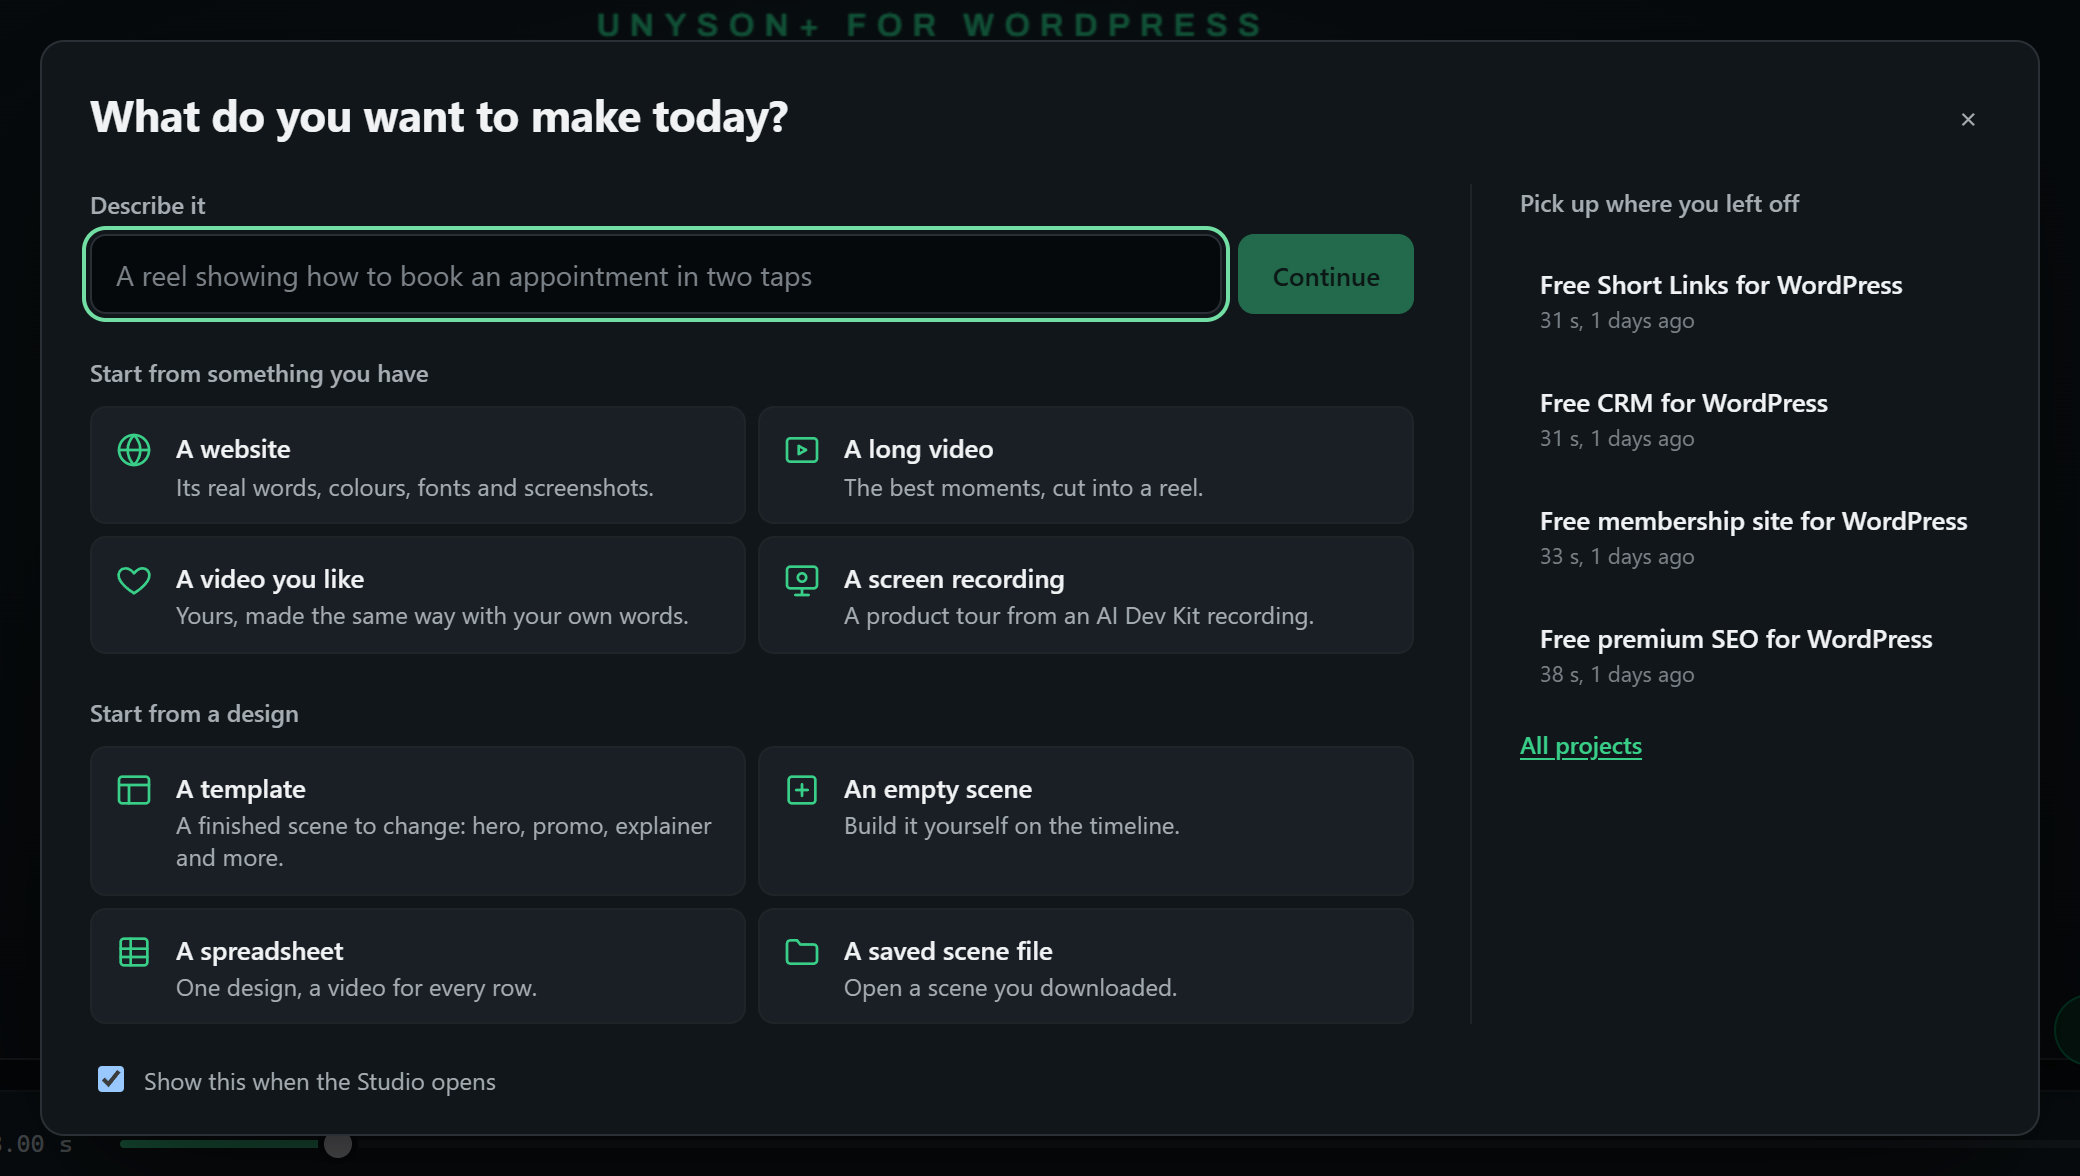
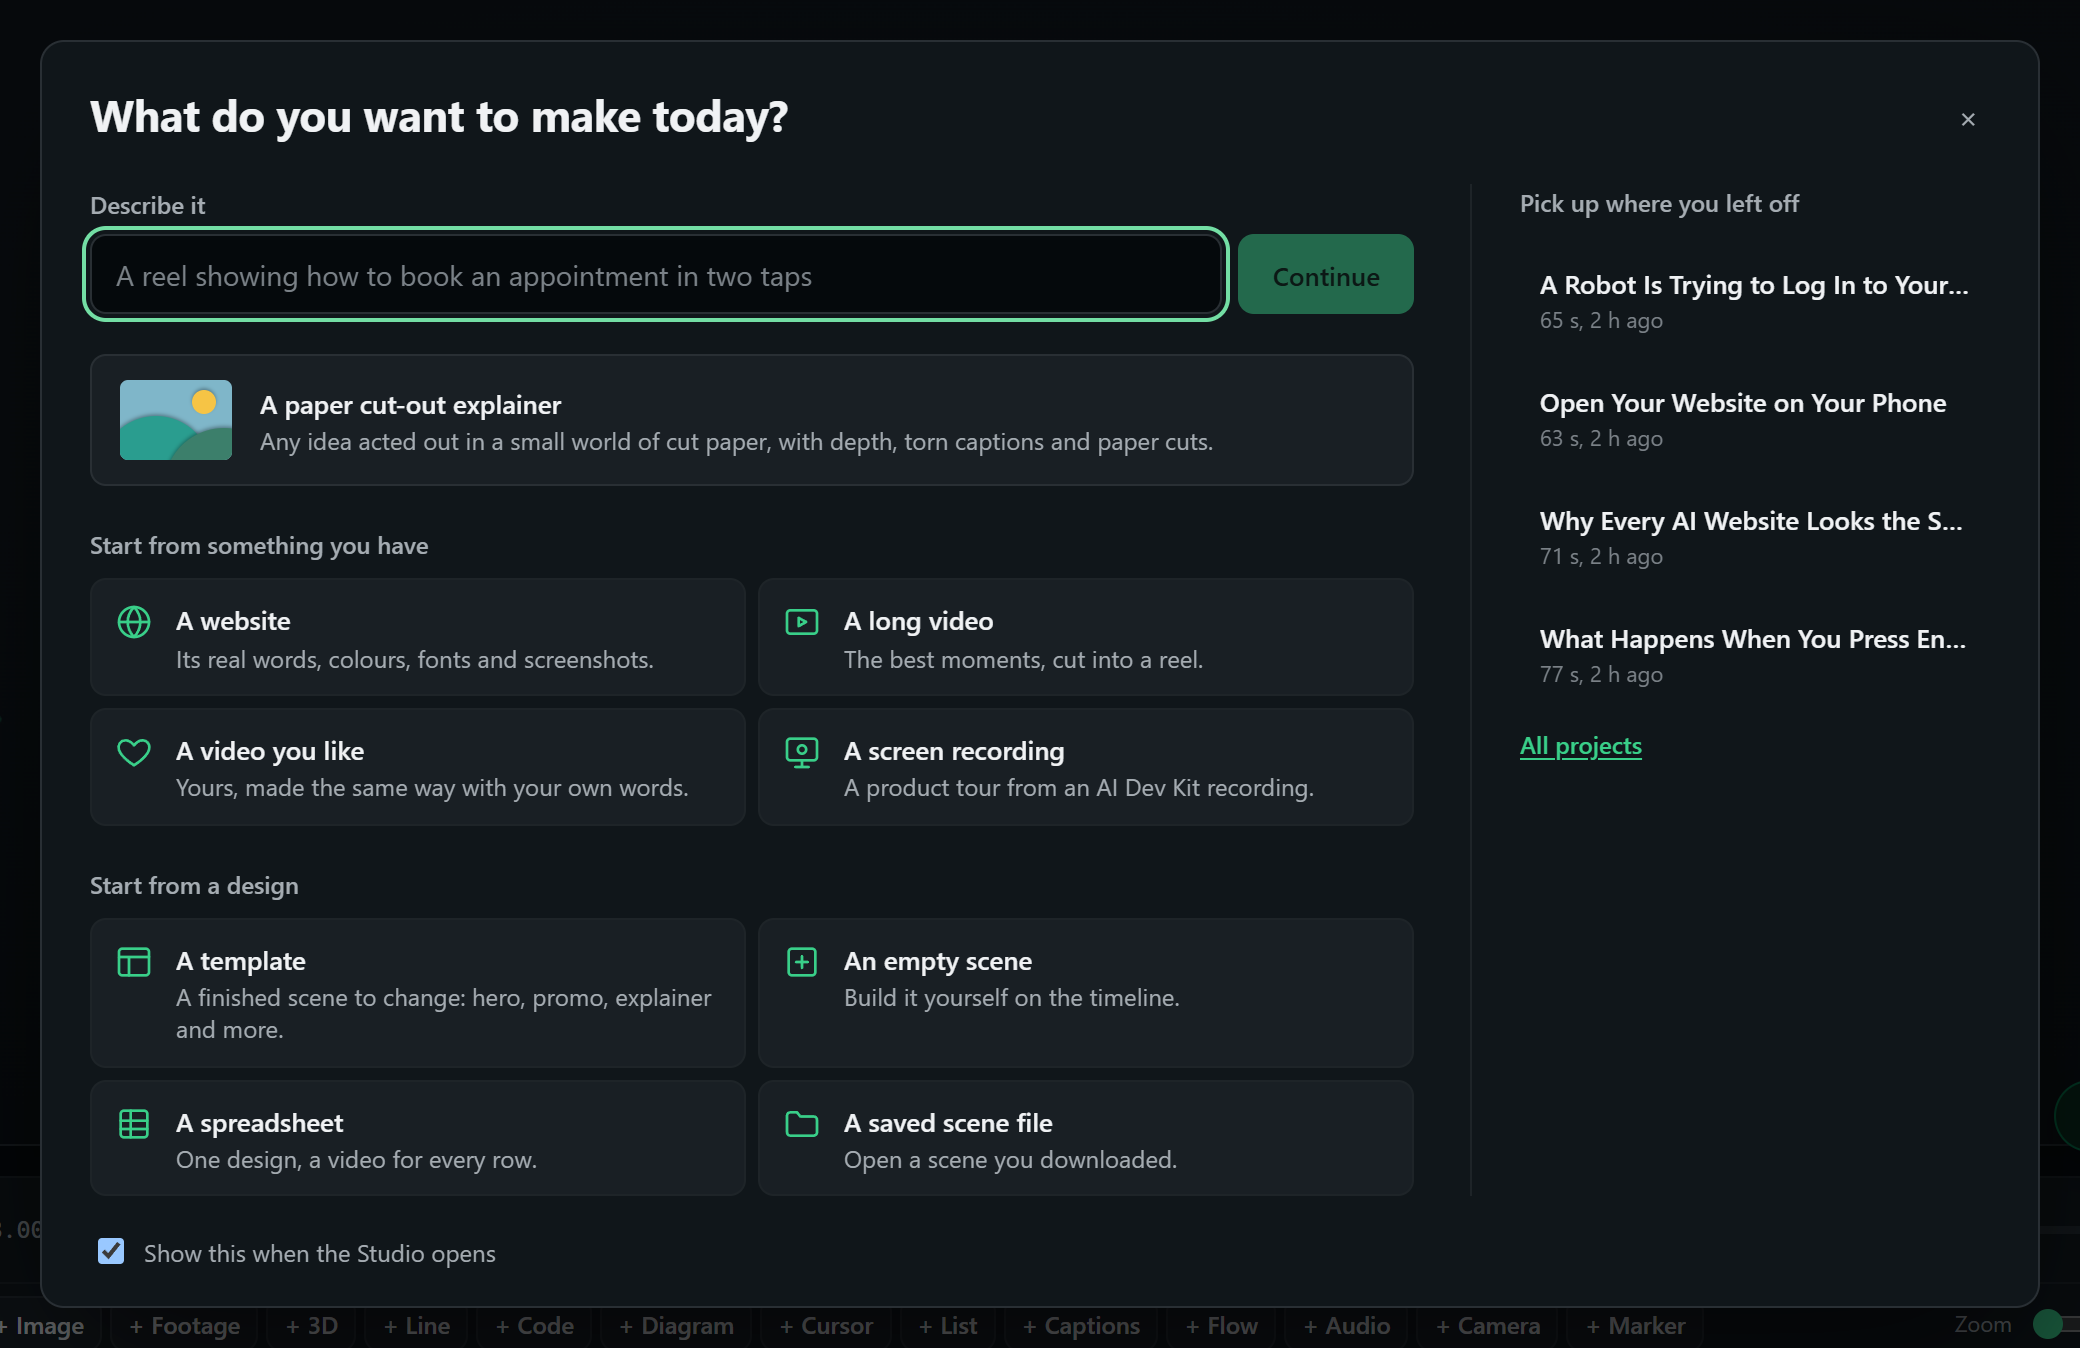
Kinetic Scenes: paper cut-out explainers

diff --git a/kinetic-scenes/paper-cut-out.md b/kinetic-scenes/paper-cut-out.md
@@ -1,0 +1,86 @@
+---
+sidebar_position: 2.45
+title: Paper cut-out explainers
+description: Make short explainer videos that look like layered construction paper in Kinetic Scenes. A cut paper look, torn caption tags, paper cuts, parallax depth and paper sounds, built from an idea in one step.
+keywords: [paper cut out animation, cut paper explainer video, papercraft motion graphics, paper tear transition, page turn transition, kinetic scenes]
+---
+
+# Paper cut-out explainers
+
+A paper cut-out explainer acts out an idea in a small world made of construction paper: layered shapes with real depth,
+a heavy banner for each beat, captions on torn paper tags, and cuts that tear, turn or peel. It suits short explainers,
+because a physical metaphor makes an abstract idea easy to follow.
+
+<img src="/img/kinetic-scenes/paper-look.png" alt="A paper world: a sun and layered hills, an orange banner and a caption on a paper tag" width="360" />
+
+## Make one
+
+Open the [start screen](./start-screen.md) and choose **A paper cut-out explainer**.
+
+<img src="/img/kinetic-scenes/start-screen-paper.png" alt="The paper explainer step: what it should explain, format, length and sound, with Start from the template and Create buttons" width="700" />
+
+- **Create** writes the story and builds the whole video. Say what it should explain, choose a format and length, and
+  tick **Add a voice-over** and **Add music** if you want them. This needs AI; with your AI agent connected, it builds
+  in a new project, step by step.
+- **Start from the template** needs no AI. It opens a finished two-part scene, with the sky, sun, hills and camera
+  already set, for you to change. You'll also find it under **File › New from template**.
+
+## How the story works
+
+The AI is told to pick one metaphor and stay inside it, such as a post office for email. It opens on a claim or a surprise
+in the first three seconds, shows the problem in that world, names the idea, shows how it works in two or three moves,
+then shows the result and ends on one clear point. Lines are short, at about 3.5 to 4 words a second, and there's a new
+set or a clear change every 2 to 3 seconds.
+
+## The parts
+
+You can use any of these in your own scenes.
+
+### Cut paper
+
+**Cut paper** is a preset, in the Ambient group. Put it on any layer for a hand-cut edge, a fine grain and a shadow that
+lifts it off the layer below. Run the clip for the whole layer: the look holds to the end.
+
+| Option | What it does | Default |
+|---|---|---|
+| **Rough edge** | How uneven the cut is. Keep it near 1 to 1.5 on anything with words, so the letters stay crisp. | 2.5 |
+| **Paper grain** | How much paper texture shows. | 0.3 |
+| **Shadow** | How high the sheet sits. Raise it for layers nearer the viewer. | 1 |
+| **Re-cuts per second** | Above 0, the edge changes a few times a second, like stop motion. | 0 |
+
+**Torn caption tags:** give a text layer a pale pill, then add **Cut paper** to it.
+
+### Paper cuts
+
+Three new transitions sit with the other **scene transitions**, and work on any two groups.
+
+<img src="/img/kinetic-scenes/paper-cuts.png" alt="Three frames: a ragged paper tear, a page turning, and a strip of tape sweeping across" width="540" />
+
+| Transition | What you see |
+|---|---|
+| **Paper tear** | The sheet rips across the stage with a pale ragged edge. You can set how ragged it is, and the edge colour. |
+| **Page turn** | The scene turns from its left edge with a soft shadow, uncovering the next. |
+| **Tape pull** | A strip of masking tape is pulled across, taking the old picture with it. You can set the tape colour. |
+
+### Depth
+
+Give each layer a **Depth** from -1 (far) to 1 (near), then add two camera keys with a slow pan. The layers slide past
+each other, which is what makes flat paper feel like a real model.
+
+### Sounds
+
+Four new sounds are in the **Sounds** tab: **Paper rustle**, **Paper tear**, **Tape pull** and **Rubber stamp**. The
+paper cuts use their matching sound by default.
+
+### The style
+
+**Paper cut-out** is also a [motion style](./motion-styles.md), so you can apply it to any scene or ask AI assist for it
+by name. Its colours are a dusty blue sky with warm orange and teal, and its fonts are Archivo Black and Fraunces.
+
+## Limits
+
+- The world is built from shapes. Detailed props, such as a character or a building, take more layers, or your own
+  transparent pictures with **Cut paper** on them.
+- **Cut paper** runs a filter on each layer, so a scene with dozens of paper layers can play less smoothly in the preview.
+  Exported videos aren't affected.
+- Paper styles use the colours you give them. For a brand video, change the palette under **Styles**.

diff --git a/kinetic-scenes/start-screen.md b/kinetic-scenes/start-screen.md
@@ -19,6 +19,7 @@ Open it at any time with **File › Start something new**.
 | Start from | What you get | Needs |
 |---|---|---|
 | **Describe it** | Type your idea. The AI plans and builds it. | AI assist connected |
+| **A paper cut-out explainer** | An idea acted out in a small world of cut paper. See [Paper cut-out explainers](./paper-cut-out.md). | AI assist connected, or start from its template |
 | **A website** | A scene from the site's real words, colours, fonts and screenshots. | AI assist connected |
 | **A long video** | The best moments, cut into a reel. See [Make a reel](./make-a-reel.md). | The AI Dev Kit |
 | **A video you like** | Yours, made with the same structure and pacing, using your own words. Nothing from the video is copied. | The AI Dev Kit |
